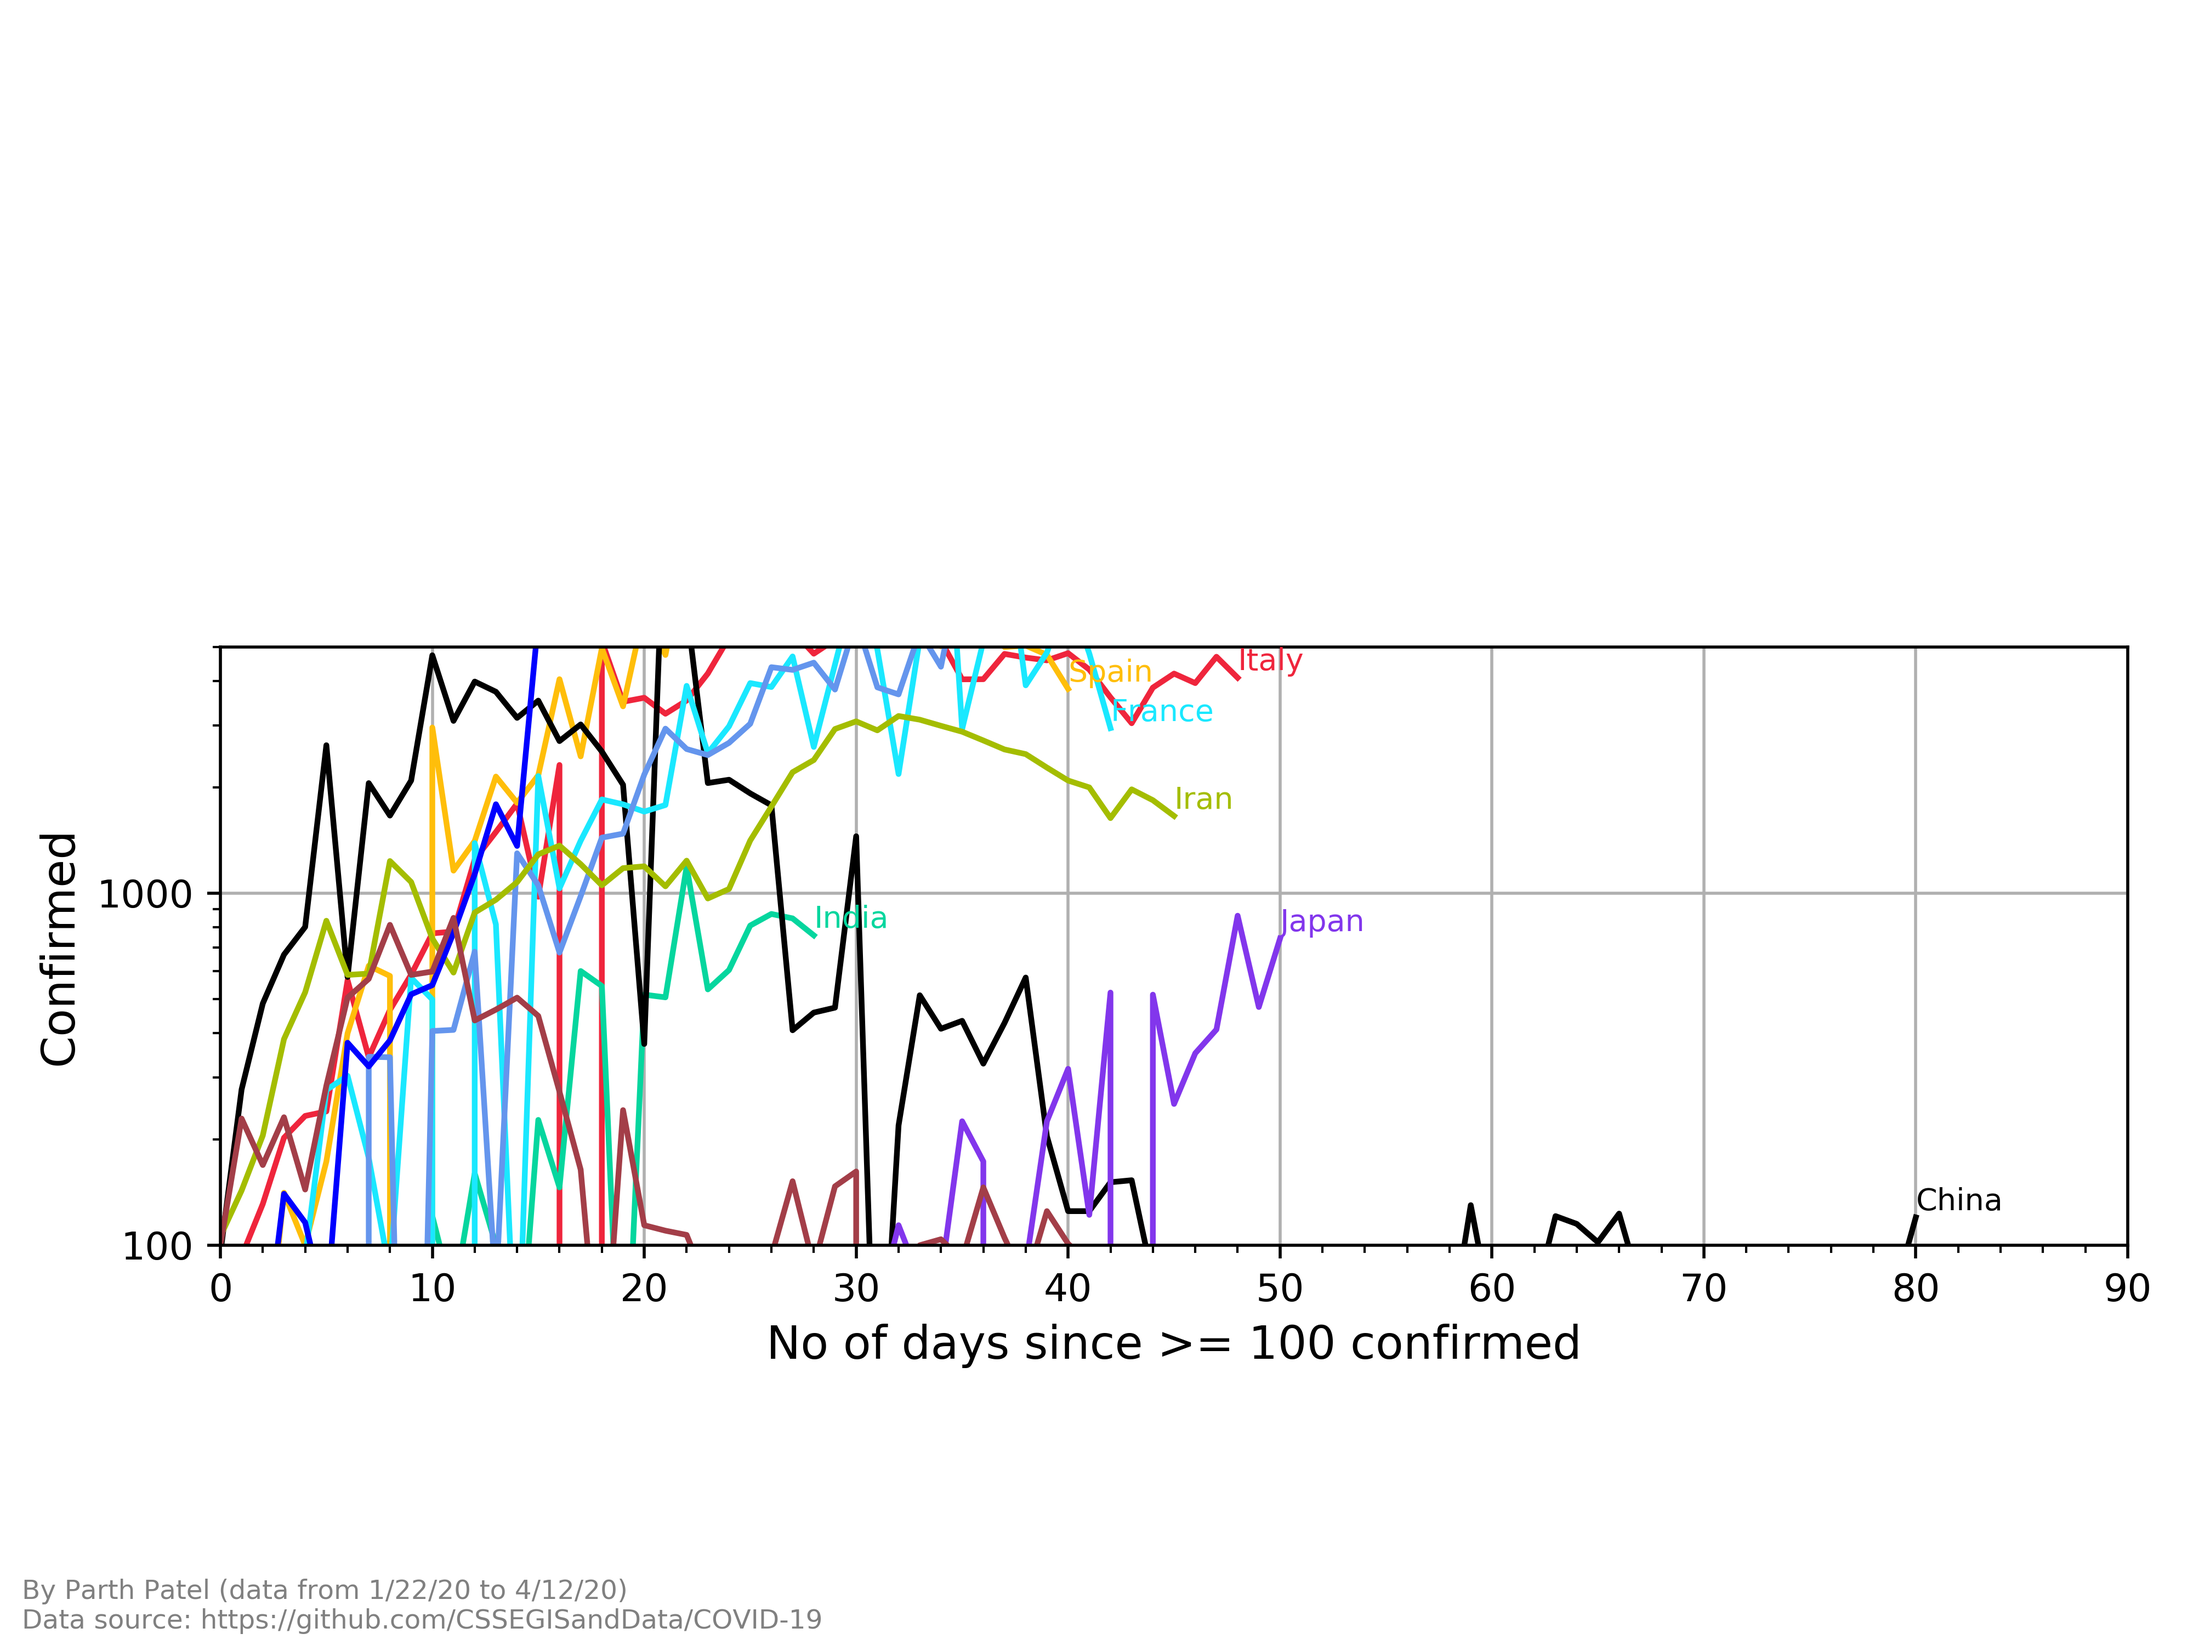
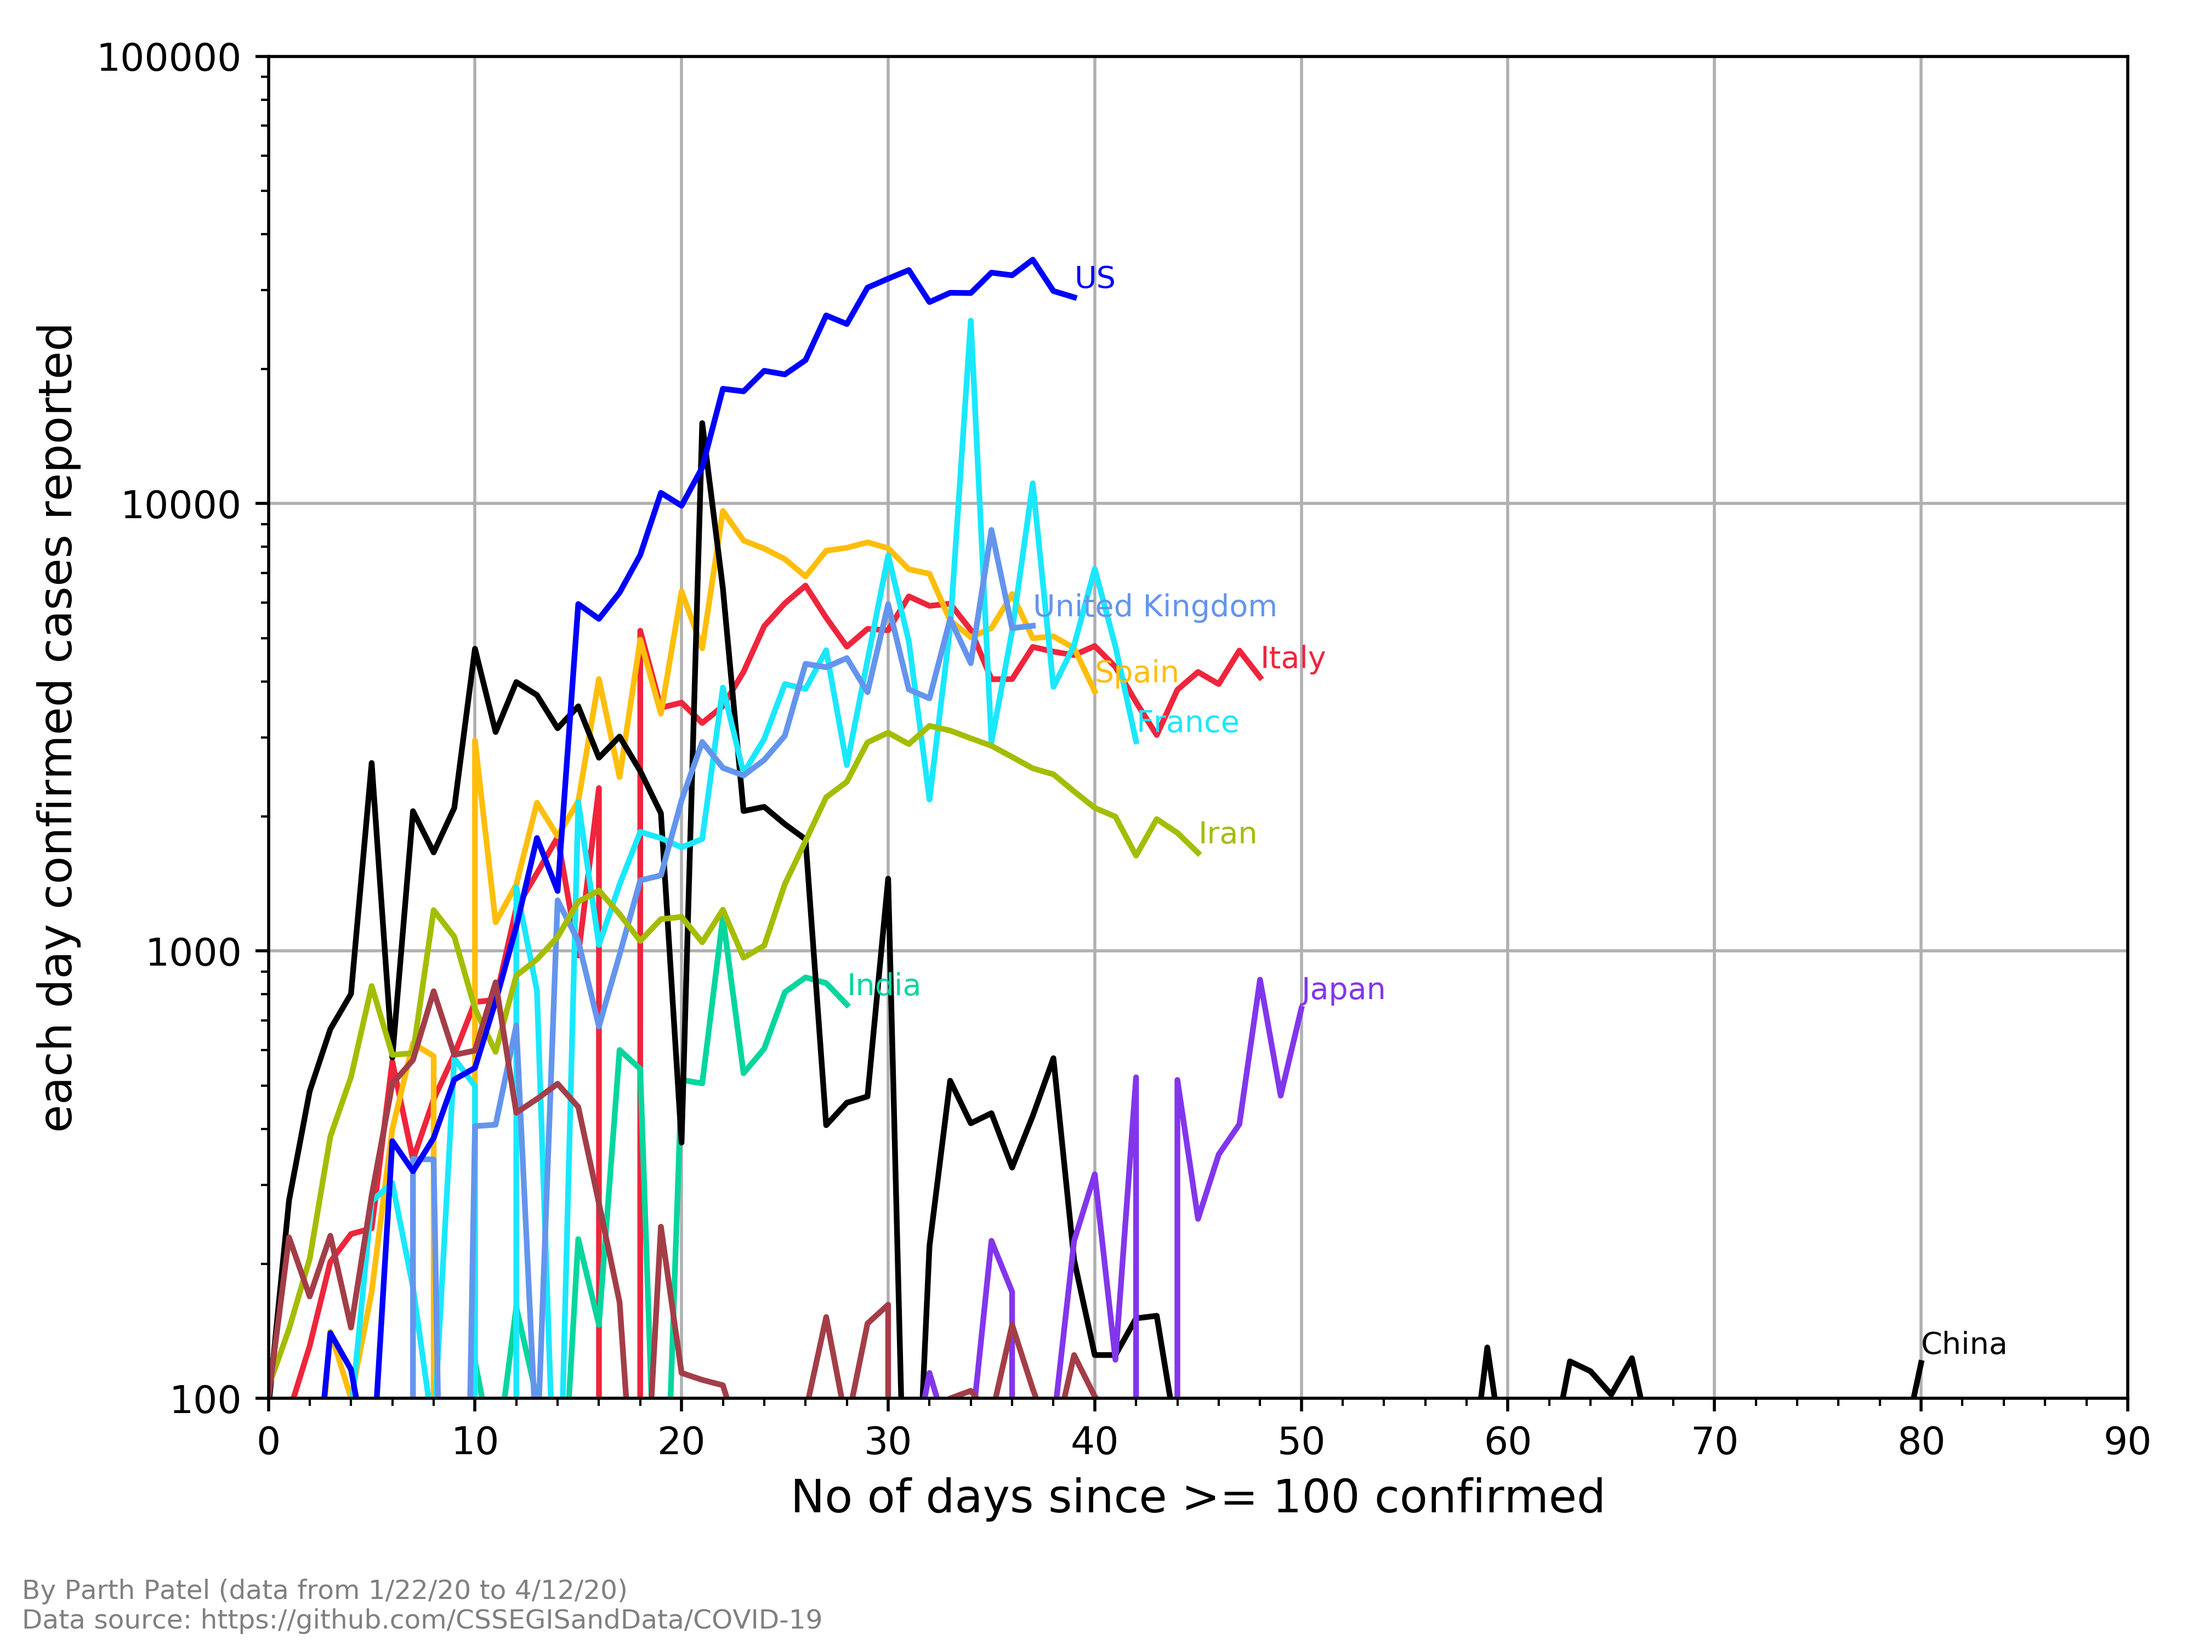
latest

diff --git a/plot.py b/plot.py
@@ -203,12 +203,12 @@ for i in list_countries:
     plt.plot(rise_day_by_day, color=color_list[k], label=i)
     plt.annotate(i, (len(rise_day_by_day)-1, rise_day_by_day
                      [-1]+0.05*rise_day_by_day[-1]), color=color_list[k], fontsize=8)
-    plt.ylabel('Confirmed', fontsize=12)
+    plt.ylabel('each day confirmed cases reported', fontsize=12)
     plt.xlabel(
         f'No of days since >= {threshold_confirmed} confirmed', fontsize=12)
     k += 1
 plt.xlim((0, no_of_days))
-plt.ylim((threshold_confirmed, 5e3))
+plt.ylim((threshold_confirmed, 1e5))
 plt.yscale('log')
 ax.yaxis.set_major_formatter(plt.FormatStrFormatter('%d'))
 # plt.legend()
@@ -219,8 +219,8 @@ plt.grid(which='major', axis='both')
 # plt.grid(which='minor', axis='both')
 
 plt.tight_layout()
-plt.show()
 plt.savefig('rise_confirmed', dpi=500)
+plt.show()
 
 # rise recovered
 threshold_recovered = 1
@@ -231,7 +231,7 @@ for i in list_countries:
     plt.plot(rise_day_by_day, color=color_list[k], label=i)
     plt.annotate(i, (len(rise_day_by_day)-1, rise_day_by_day
                      [-1]+0.05*rise_day_by_day[-1]), color=color_list[k], fontsize=8)
-    plt.ylabel('Recovered', fontsize=12)
+    plt.ylabel('each day recovered reported', fontsize=12)
     plt.xlabel(
         f'No of days since >= {threshold_recovered} recovered', fontsize=12)
     k += 1
@@ -258,7 +258,7 @@ for i in list_countries:
     plt.plot(rise_day_by_day, color=color_list[k], label=i)
     plt.annotate(i, (len(rise_day_by_day)-1, rise_day_by_day
                      [-1]+0.05*rise_day_by_day[-1]), color=color_list[k], fontsize=8)
-    plt.ylabel('Death', fontsize=12)
+    plt.ylabel('each day deaths reported', fontsize=12)
     plt.xlabel(
         f'No of days since >= {threshold_death} death', fontsize=12)
     k += 1
